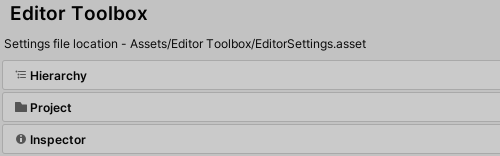
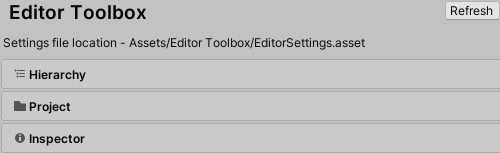
Rename property-related folders. Add a 'Refresh' button to the Settings window

diff --git a/Assets/Editor Toolbox/Editor/ToolboxManager.cs b/Assets/Editor Toolbox/Editor/ToolboxManager.cs
@@ -88,6 +88,16 @@ namespace Toolbox.Editor
         internal static bool InitializeSettings()
         {
             var guids = AssetDatabase.FindAssets("t:" + settingsType);
+            //try to find a settings file in a non-package directory
+            foreach (var guid in guids)
+            {
+                var path = AssetDatabase.GUIDToAssetPath(guid);
+                if (path.StartsWith("Assets"))
+                {
+                    guids[0] = guid;
+                    break;
+                }
+            }
 
             if (InitializeSettings(guids.Length > 0 ? guids[0] : null))
             {
@@ -139,6 +149,16 @@ namespace Toolbox.Editor
         internal static SettingsProvider SettingsProvider()
         {
             var provider = new SettingsProvider("Project/Editor Toolbox", SettingsScope.Project);
+
+            void ReintializeProvider()
+            {
+                InitializeSettings();
+
+                //rebuild the settings provider right after initialization
+                provider.OnDeactivate();
+                provider.OnActivate("", null);
+            }
+
             provider.guiHandler = (searchContext) =>
             {
                 if (globalSettingsEditor == null || globalSettingsEditor.serializedObject.targetObject == null)
@@ -147,33 +167,22 @@ namespace Toolbox.Editor
                     EditorGUILayout.LabelField("Cannot find " + settingsType + " file located in this Project");
                     EditorGUILayout.Space();
 
-                    void InitializeProvider()
-                    {
-                        provider.OnDeactivate();
-                        provider.OnActivate("", null);
-                    }
-
-                    if (GUILayout.Button("Try to find the settings file"))
-                    {
-                        InitializeSettings();
-                        InitializeProvider();
-                    }
-
-                    if (GUILayout.Button("Create the new settings file"))
+                    if (GUILayout.Button("Create a new settings file"))
                     {
                         var settingsInstance = ScriptableObject.CreateInstance(settingsType);
 
-                        var directoryPath = EditorUtility.OpenFolderPanel("New Settings file location", "Assets", "");
-                        var settingsPath = directoryPath.Substring(directoryPath.IndexOf("Assets/")) + "/" + settingsType + ".asset";
+                        var locationPath = EditorUtility.OpenFolderPanel("New Settings file location", "Assets", "");
+                        var relativePath = locationPath
+                                               .Substring(locationPath
+                                                   .IndexOf("Assets/")) + "/" + settingsType + ".asset";
 
-                        AssetDatabase.CreateAsset(settingsInstance, settingsPath);
+                        AssetDatabase.CreateAsset(settingsInstance, relativePath);
                         AssetDatabase.SaveAssets();
                         AssetDatabase.Refresh();
 
-                        ToolboxEditorLog.LogMessage("Created the settings file at - " + settingsPath);
+                        ToolboxEditorLog.LogMessage("Created a settings file at - " + relativePath);
 
-                        InitializeSettings();
-                        InitializeProvider();
+                        ReintializeProvider();
                     }
 
                     return;
@@ -183,9 +192,7 @@ namespace Toolbox.Editor
                 EditorGUILayout.LabelField("Settings file location - " + SettingsPath);
                 EditorGUILayout.Space();
 
-                globalSettingsEditor.serializedObject.Update();
                 globalSettingsEditor.OnInspectorGUI();
-                globalSettingsEditor.serializedObject.ApplyModifiedProperties();
             };
             provider.activateHandler = (searchContext, elements) =>
             {
@@ -194,6 +201,13 @@ namespace Toolbox.Editor
             provider.deactivateHandler = () =>
             {
                 Object.DestroyImmediate(globalSettingsEditor);
+            };
+            provider.titleBarGuiHandler = () =>
+            {
+                if (GUILayout.Button(new GUIContent("Refresh", "Try to find a new settings file in the main (Assets) directory")))
+                {
+                    ReintializeProvider();
+                }
             };
 
             return provider;

diff --git a/Assets/Editor Toolbox/Editor/Drawers/ToolboxDrawers/DecoratorDrawers/ImageAreaAttributeDrawer.cs b/Assets/Editor Toolbox/Editor/Drawers/ToolboxDrawers/DecoratorDrawers/ImageAreaAttributeDrawer.cs
@@ -21,7 +21,7 @@ namespace Toolbox.Editor.Drawers
             if (!textures.TryGetValue(url, out var texture))
             {
                 textures[url] = texture = new DownloadedTexture(true);
-                EditorCoroutineUtility.StartCoroutineOwnerless(SendGetImageRequest(url, (b, t) =>
+                EditorCoroutineUtility.StartCoroutine(SendGetImageRequest(url, (b, t) =>
                 {
                     textures[url] = new DownloadedTexture(false, t);
                     if (b)

diff --git a/Assets/Editor Toolbox/Editor/ToolboxEditorSettings.cs b/Assets/Editor Toolbox/Editor/ToolboxEditorSettings.cs
@@ -73,6 +73,7 @@ namespace Toolbox.Editor
         int TargetTypeDrawersCount { get; }
     }
 
+    [CreateAssetMenu(fileName = "Editor Toolbox Settings", menuName = "Editor Toolbox/Settings")]
     public class ToolboxEditorSettings : ScriptableObject, IToolboxHierarchySettings, IToolboxProjectSettings, IToolboxInspectorSettings
     {
         [SerializeField]

diff --git a/Assets/Editor Toolbox/Editor/Routine/EditorCoroutineUtility.cs b/Assets/Editor Toolbox/Editor/Routine/EditorCoroutineUtility.cs
@@ -10,7 +10,7 @@ namespace Toolbox.Editor.Routine
             return new EditorCoroutine(routine, owner);
         }
 
-        public static EditorCoroutine StartCoroutineOwnerless(IEnumerator routine)
+        public static EditorCoroutine StartCoroutine(IEnumerator routine)
         {
             return new EditorCoroutine(routine);
         }

diff --git a/Assets/Editor Toolbox/Editor/ToolboxEditorToolbar.cs b/Assets/Editor Toolbox/Editor/ToolboxEditorToolbar.cs
@@ -28,7 +28,7 @@ namespace Toolbox.Editor
     {
         static ToolboxEditorToolbar()
         {
-            EditorCoroutineUtility.StartCoroutineOwnerless(Initialize());
+            EditorCoroutineUtility.StartCoroutine(Initialize());
         }
 
 
